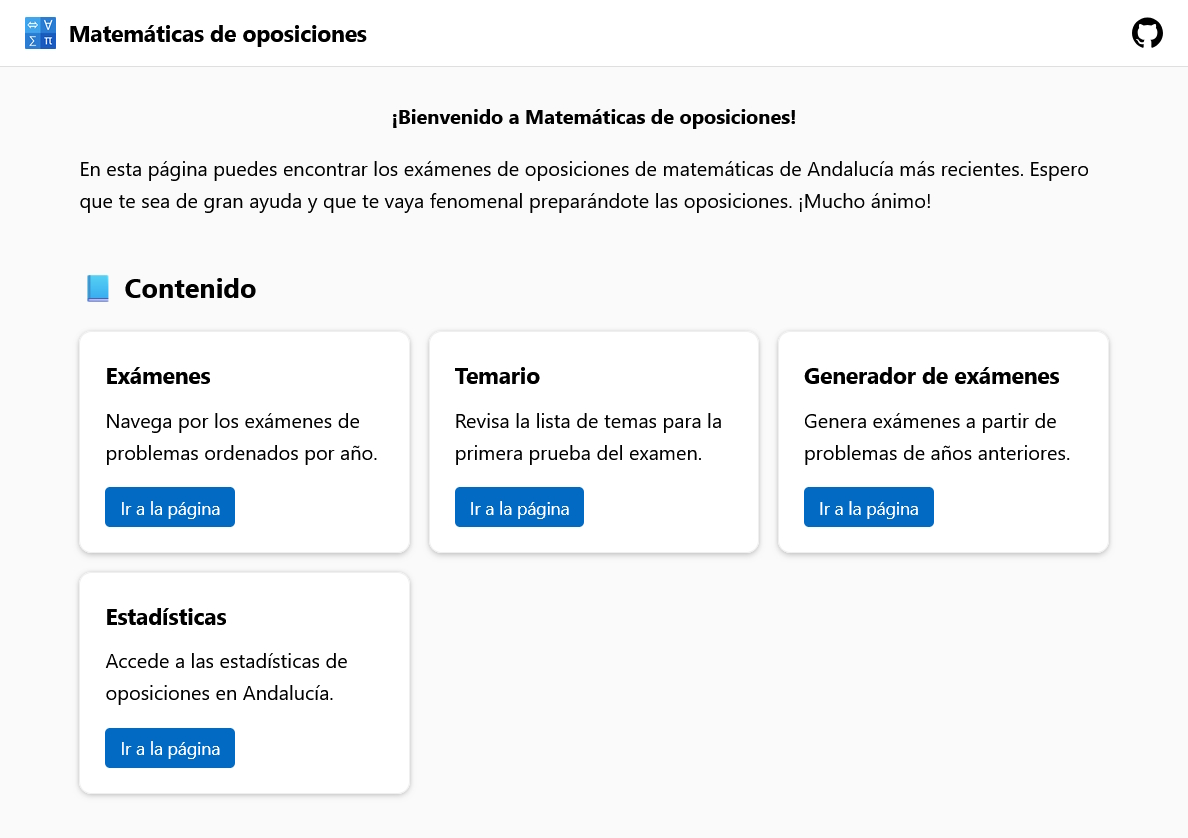
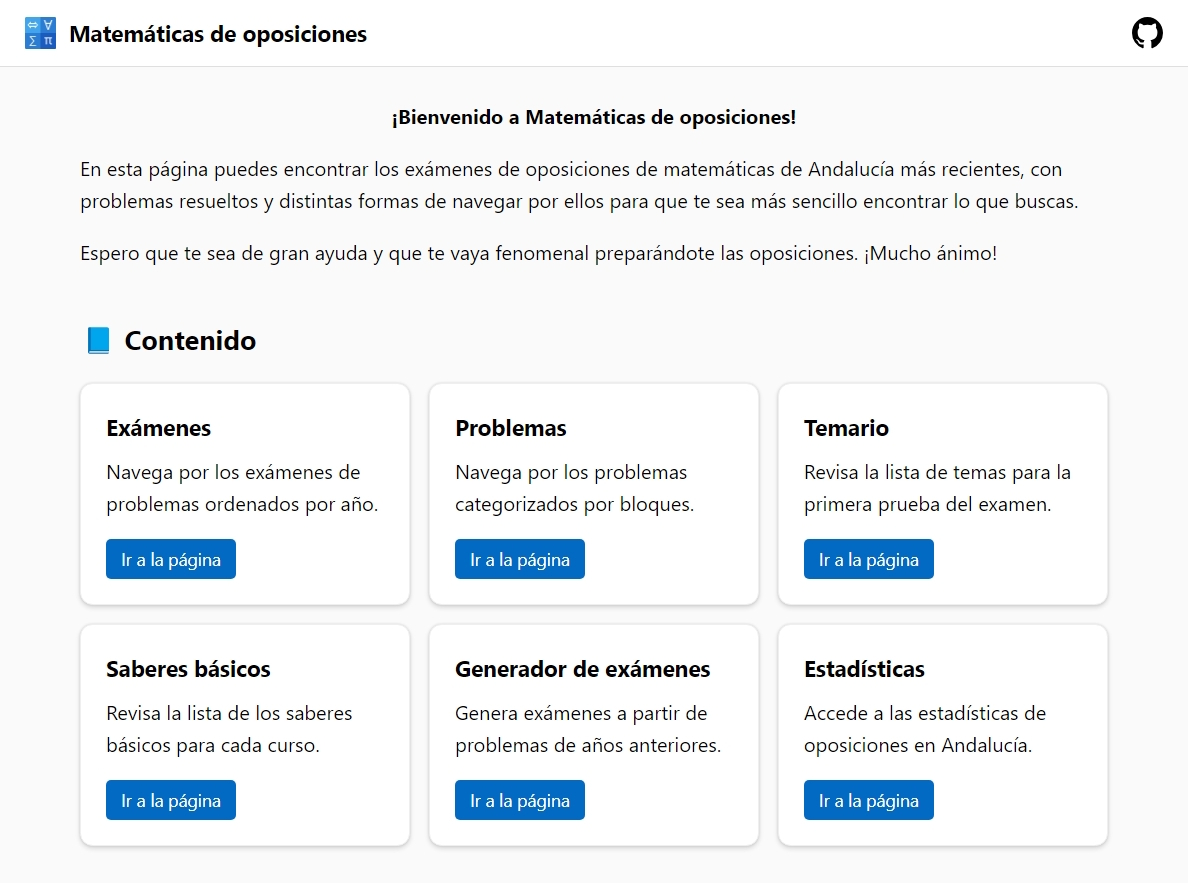
Actualizando la información y la documentación.

diff --git a/index.html b/index.html
@@ -36,9 +36,12 @@
         <p>¡Bienvenido a Matemáticas de oposiciones!</p>
 
         <p>
-            En esta página puedes encontrar los exámenes de oposiciones de matemáticas de Andalucía más recientes.
-            Espero que te sea de gran ayuda y que te vaya fenomenal preparándote las oposiciones. ¡Mucho ánimo!
+            En esta página puedes encontrar los exámenes de oposiciones de matemáticas de Andalucía más recientes, con
+            problemas resueltos y distintas formas de navegar por ellos para que te sea más sencillo encontrar lo que
+            buscas.
         </p>
+
+        <p>Espero que te sea de gran ayuda y que te vaya fenomenal preparándote las oposiciones. ¡Mucho ánimo!</p>
 
         <section>
             <h2>📘 Contenido</h2>
@@ -143,6 +146,17 @@
                         Ir a la página</a>
                 </div>
             </div>
+
+            <h3>Sobre mí</h3>
+            <p>
+                Me llamo Daniel Sevillano y soy graduado en matemáticas. Desde pequeño me ha atraído la docencia y ahora
+                estoy preparándome las oposiciones para ser profesor de matemáticas de secundaria.
+            </p>
+            <p>
+                También me interesa la programación y disfruto planteándome nuevos retos para seguir aprendiendo. Esta
+                página web es uno de los proyectos de los que más orgulloso me siento y espero de corazón que pueda
+                servir de ayuda a todos los que estén estudiando para las oposiciones.
+            </p>
         </section>
     </main>
 </body>

diff --git a/README.md b/README.md
@@ -1,9 +1,8 @@
 # Matemáticas de oposiciones
 
-Matemáticas de oposiciones es una página web para ver los exámenes de oposiciones de matemáticas de Andalucía.
-También cuenta con contenido adicional, como estadísticas y un generador de exámenes.
+Matemáticas de oposiciones es una página web para ver los exámenes de oposiciones de matemáticas de Andalucía, navegar por los problemas de forma sencilla y revisar sus resoluciones. También cuenta con contenido adicional, como problemas semanales y un generador de exámenes.
 
-La página hace uso de [MathJax](https://www.mathjax.org/) para mostrar los problemas directamente en el navegador y de [Chart.js](https://www.chartjs.org/) para las gráficas de las estadísticas.
+La página hace uso de [MathJax](https://www.mathjax.org/) para mostrar los problemas directamente en el navegador y de [Chart.js](https://www.chartjs.org/) para las gráficas de las estadísticas. Los exámenes están ordenados por año y los problemas están clasificados por ramas.
 
 El diseño está inspirado en [Fluent Design](https://fluent2.microsoft.design), el lenguaje de diseño utilizado por Microsoft en Windows.
 
